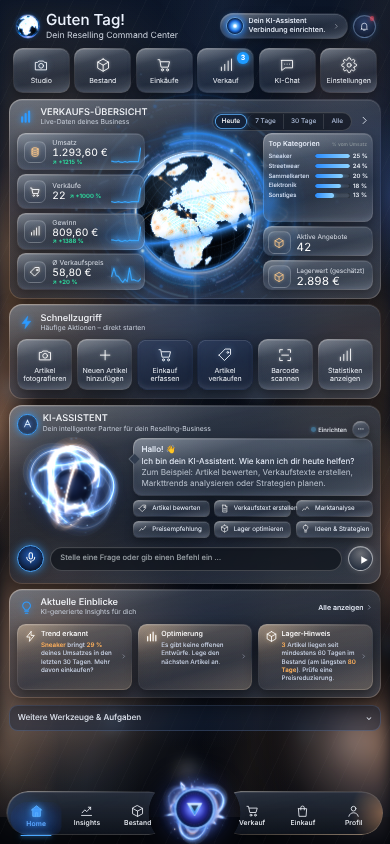
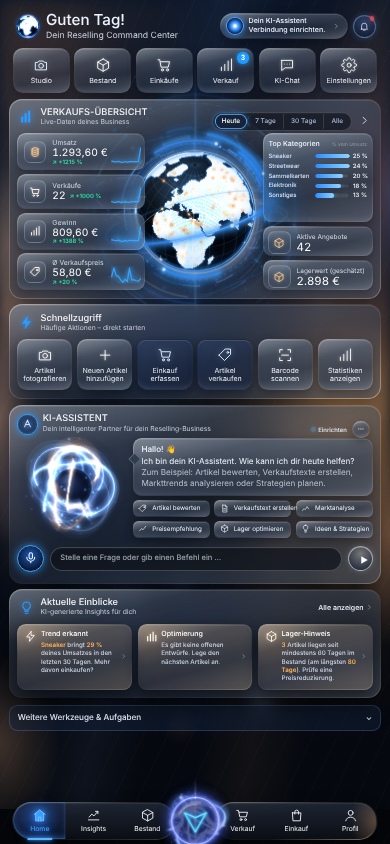
Menüleiste nach Vorlage neu gebaut
- Zwei getrennte, abgerundete dunkle Glasflügel mit Lücke für die Mitte,
  warmer Schein am rechten Ende
- Aktive Seite: blaue Leuchtfläche, gefülltes blaues Symbol, blaue Schrift, Lichtstrich
- Mitte: Glaskugel mit leuchtendem violett-blauem Ring, Pfeil, senkrechtem
  Lichtstrahl, Funkeln und Plasma-Bändern

Claude-Session: https://claude.ai/code/session_0194bcZ5PbUBuV3hzmwdGD96

diff --git a/public/theme.css b/public/theme.css
@@ -620,3 +620,55 @@ body:has(#home:not(.hidden)) main.wrap { padding-bottom:120px !important; }
 .lux-bottomnav .orb { margin-top:-30px !important; }
 .lux-bottomnav .orb { align-self:center !important; margin-top:-14px !important; min-height:0 !important; height:96px; display:grid !important; place-items:center !important; }
 .lux-bottomnav .orb .cc-nav-plasma { transform:translate(-50%,-50%) !important; }
+
+/* ================= Menüleiste exakt nach Vorlage ================= */
+#bottomnav.lux-bottomnav { left:50% !important; transform:translateX(-50%) !important; width:min(calc(100% - 16px), 900px) !important; bottom:8px !important;
+  height:auto !important; padding:0 2.2% calc(env(safe-area-inset-bottom,0px)) !important; border:0 !important; background:none !important; box-shadow:none !important;
+  -webkit-backdrop-filter:none !important; backdrop-filter:none !important; overflow:visible !important;
+  display:grid !important; grid-template-columns:repeat(3,minmax(0,1fr)) 11.4% repeat(3,minmax(0,1fr)) !important; align-items:center !important; }
+/* zwei getrennte Glasflügel */
+#bottomnav.lux-bottomnav::before, #bottomnav.lux-bottomnav::after { content:'' !important; display:block !important; position:absolute !important; top:0 !important; bottom:0 !important;
+  width:42.3% !important; height:auto !important; z-index:-1 !important; border-radius:999px !important; border:1px solid transparent !important; pointer-events:none;
+  -webkit-mask-image:none !important; mask-image:none !important; -webkit-backdrop-filter:blur(14px) !important; backdrop-filter:blur(14px) !important;
+  box-shadow:inset 0 1px 0 rgba(255,255,255,.14), 0 8px 24px rgba(0,0,0,.55) !important; }
+#bottomnav.lux-bottomnav::before { left:2.1% !important; right:auto !important;
+  background:linear-gradient(180deg, rgba(40,50,66,.62), rgba(14,18,26,.86)) padding-box,
+    linear-gradient(170deg, rgba(255,255,255,.42), rgba(255,255,255,.10) 35%, rgba(255,255,255,.06) 70%, rgba(255,255,255,.22)) border-box !important; }
+#bottomnav.lux-bottomnav::after { right:2.1% !important; left:auto !important;
+  background:radial-gradient(ellipse 22% 120% at 100% 50%, rgba(255,180,120,.30), transparent 75%) padding-box,
+    linear-gradient(180deg, rgba(40,50,66,.62), rgba(14,18,26,.86)) padding-box,
+    linear-gradient(170deg, rgba(255,255,255,.42), rgba(255,255,255,.10) 35%, rgba(255,255,255,.06) 70%, rgba(255,215,175,.55)) border-box !important; }
+/* Einträge */
+#bottomnav.lux-bottomnav button:not(.orb) { position:relative; min-height:70px !important; height:70px; padding:0 !important; gap:6px !important;
+  display:flex !important; flex-direction:column; align-items:center; justify-content:center; color:#f2f4f8 !important; background:none !important; border-radius:0 !important; }
+#bottomnav.lux-bottomnav button:not(.orb) svg { width:27px !important; height:27px !important; stroke-width:1.5 !important; color:#f2f4f8 !important; fill:none !important; filter:none !important; }
+#bottomnav.lux-bottomnav button span { font:400 12.5px/1 var(--cc-font) !important; color:#eef1f6 !important; text-shadow:none !important; letter-spacing:0 !important; }
+#bottomnav.lux-bottomnav button:not(.orb)::before { content:'' !important; display:block !important; position:absolute !important; inset:2px 4px !important; opacity:0;
+  border-radius:999px 26px 26px 999px !important; clip-path:none !important;
+  background:radial-gradient(ellipse 70% 80% at 45% 45%, rgba(40,110,255,.38), rgba(20,60,170,.18) 65%, rgba(20,60,170,.06)) !important;
+  box-shadow:inset 0 0 0 1px rgba(90,160,255,.35), inset 0 -6px 14px -6px rgba(70,150,255,.7) !important; transition:opacity .2s ease; }
+#bottomnav.lux-bottomnav button:not(.orb):not(:first-child)::before { border-radius:26px !important; }
+#bottomnav.lux-bottomnav button.selected::before, #bottomnav.lux-bottomnav button.cc-tap::before { opacity:1 !important; }
+#bottomnav.lux-bottomnav button:not(.orb).selected::after { content:'' !important; display:block !important; position:absolute !important; left:26% !important; right:26% !important;
+  bottom:0 !important; top:auto !important; height:3px !important; width:auto !important; border-radius:3px; background:#5fb4ff !important;
+  box-shadow:0 0 6px #3a9cff, 0 0 16px #2f8cff, 0 0 26px rgba(47,140,255,.7) !important; }
+#bottomnav.lux-bottomnav button.selected svg { color:#3aa0ff !important; fill:#3aa0ff !important; stroke:#7cc4ff !important; filter:drop-shadow(0 0 6px #2f8cff) drop-shadow(0 0 12px rgba(47,140,255,.6)) !important; }
+#bottomnav.lux-bottomnav button.selected span { color:#4aa8ff !important; text-shadow:0 0 8px rgba(47,140,255,.8) !important; font-weight:500 !important; }
+/* Mitte */
+#bottomnav.lux-bottomnav .orb { position:relative !important; height:70px !important; min-height:0 !important; margin:0 !important; padding:0 !important; overflow:visible !important;
+  display:block !important; background:none !important; }
+#bottomnav.lux-bottomnav .orb::before, #bottomnav.lux-bottomnav .orb::after { display:none !important; }
+#bottomnav.lux-bottomnav .orb svg.cc-navorb { position:absolute !important; left:50% !important; top:50% !important; width:118px !important; height:118px !important;
+  transform:translate(-50%,-50%) !important; filter:drop-shadow(0 0 10px rgba(90,110,255,.8)) !important; }
+#bottomnav.lux-bottomnav .orb .cc-nav-plasma { position:absolute !important; left:50% !important; top:50% !important; width:150px !important; height:150px !important;
+  transform:translate(-50%,-50%) !important; opacity:.85; }
+#bottomnav.lux-bottomnav .orb.cc-tap svg.cc-navorb { filter:drop-shadow(0 0 14px #6f86ff) drop-shadow(0 0 28px #4a5cff) !important; }
+body:has(#home:not(.hidden)) main.wrap { padding-bottom:104px !important; }
+#bottomnav.lux-bottomnav button.cc-nav-hidden:not(.orb) { display:none !important; }
+#bottomnav.lux-bottomnav::before { background:linear-gradient(180deg, rgba(30,38,52,.94), rgba(10,13,20,.97)) padding-box,
+    linear-gradient(170deg, rgba(255,255,255,.42), rgba(255,255,255,.10) 35%, rgba(255,255,255,.06) 70%, rgba(255,255,255,.22)) border-box !important; }
+#bottomnav.lux-bottomnav::after { background:radial-gradient(ellipse 22% 120% at 100% 50%, rgba(255,180,120,.30), transparent 75%) padding-box,
+    linear-gradient(180deg, rgba(30,38,52,.94), rgba(10,13,20,.97)) padding-box,
+    linear-gradient(170deg, rgba(255,255,255,.42), rgba(255,255,255,.10) 35%, rgba(255,255,255,.06) 70%, rgba(255,215,175,.55)) border-box !important; }
+#bottomnav.lux-bottomnav #navHome::before { inset:1px 2px 1px 1px !important; border-radius:999px 30px 30px 999px !important; }
+#bottomnav.lux-bottomnav .orb svg.cc-navorb { width:126px !important; height:126px !important; }

diff --git a/public/fx.js b/public/fx.js
@@ -614,31 +614,34 @@
     return S;
   }
 
-  /* Menümitte: leuchtender Ring mit Lichtreflex und Dreieck (KI-Chat) */
+  /* Menümitte wie in der Vorlage: Glaskugel, leuchtender Ring, Pfeil, Lichtstrahl */
   function buildNavOrb(host) {
     var id = 'no' + (++orbSerial), S = svgEl('svg', { viewBox: '0 0 100 100', class: 'cc-navorb', 'aria-hidden': 'true' });
     var d = svgEl('defs', {}); S.appendChild(d);
     function A(tag, at, p) { var e = svgEl(tag, at); (p || S).appendChild(e); return e; }
     function grad(type, gid, at, stops) { var g = svgEl(type, Object.assign({ id: id + gid }, at || {})); stops.forEach(function (q) { g.appendChild(svgEl('stop', { offset: q[0], 'stop-color': q[1], 'stop-opacity': q[2] == null ? '1' : q[2] })); }); d.appendChild(g); }
-    var f = svgEl('filter', { id: id + 'g', x: '-60%', y: '-60%', width: '220%', height: '220%' }); f.appendChild(svgEl('feGaussianBlur', { stdDeviation: '2.2' })); d.appendChild(f);
-    grad('radialGradient', 'h', {}, [['0', '#8a7cff', '.75'], ['.55', '#4a5cf0', '.35'], ['1', '#000', '0']]);
-    grad('radialGradient', 'k', { cx: '.5', cy: '.48', r: '.55' }, [['0', '#c8d6ff'], ['.25', '#6a7cff'], ['.55', '#2a2fa0'], ['.85', '#0b0d38'], ['1', '#05061a']]);
-    grad('linearGradient', 'l', { x1: '0', y1: '0', x2: '1', y2: '0' }, [['0', '#7cc4ff', '0'], ['.5', '#ffffff'], ['1', '#7cc4ff', '0']]);
-    grad('linearGradient', 't', { x1: '0', y1: '0', x2: '0', y2: '1' }, [['0', '#e6f4ff'], ['.5', '#5fb4ff'], ['1', '#1f6fe0']]);
-    A('circle', { cx: 50, cy: 50, r: 50, fill: 'url(#' + id + 'h)', class: 'cc-field-halo' });
-    A('circle', { cx: 50, cy: 50, r: 36, fill: 'url(#' + id + 'k)' });
-    A('circle', { cx: 50, cy: 50, r: 37, fill: 'none', stroke: '#3d9bff', 'stroke-width': '5', opacity: '.7', filter: 'url(#' + id + 'g)', class: 'cc-orb-pulse' });
-    A('circle', { cx: 50, cy: 50, r: 37, fill: 'none', stroke: '#bfe3ff', 'stroke-width': '1.4' });
-    function rot(v, dur) { var g = A('g', {}); if (!reduce) g.appendChild(svgEl('animateTransform', { attributeName: 'transform', type: 'rotate', values: v, dur: dur, repeatCount: 'indefinite' })); return g; }
-    A('circle', { cx: 50, cy: 50, r: 43, fill: 'none', stroke: '#5fb4ff', 'stroke-width': '1', 'stroke-dasharray': '14 5 3 5', opacity: '.8' }, rot('0 50 50;360 50 50', '12s'));
-    A('circle', { cx: 50, cy: 50, r: 30, fill: 'none', stroke: '#9fd2ff', 'stroke-width': '.6', 'stroke-dasharray': '2 2.4', opacity: '.7' }, rot('360 50 50;0 50 50', '9s'));
-    var cm = rot('0 50 50;360 50 50', '3.8s');
-    A('path', { d: 'M50 7 A43 43 0 0 1 80.4 19.6', fill: 'none', stroke: '#ffffff', 'stroke-width': '1.6', 'stroke-linecap': 'round', filter: 'url(#' + id + 'g)' }, cm);
-    A('circle', { cx: 80.4, cy: 19.6, r: 1.8, fill: '#fff' }, cm);
-    A('path', { d: 'M4 50 H96', stroke: 'url(#' + id + 'l)', 'stroke-width': '1.2', opacity: '.85' });
-    A('path', { d: 'M36 39 H64 L50 63 Z', fill: '#3d9bff', opacity: '.8', filter: 'url(#' + id + 'g)', class: 'cc-orb-pulse' });
-    A('path', { d: 'M36 39 H64 L50 63 Z', fill: 'url(#' + id + 't)', stroke: '#e6f4ff', 'stroke-width': '1', 'stroke-linejoin': 'round' });
-    A('path', { d: 'M43 43 H57 L50 55 Z', fill: '#0a1a3a', opacity: '.75' });
+    function blur(fid, sd) { var f = svgEl('filter', { id: id + fid, x: '-80%', y: '-80%', width: '260%', height: '260%' }); f.appendChild(svgEl('feGaussianBlur', { stdDeviation: sd })); d.appendChild(f); }
+    blur('g', '1.6'); blur('G', '4');
+    grad('radialGradient', 'k', { cx: '.45', cy: '.42', r: '.6' }, [['0', '#1a2650'], ['.6', '#0a1030'], ['.92', '#141c4a'], ['1', '#2a3a90']]);
+    grad('linearGradient', 'v', { x1: '0', y1: '0', x2: '0', y2: '1' }, [['0', '#9ab8ff', '0'], ['.5', '#e8f0ff', '1'], ['1', '#9ab8ff', '0']]);
+    // Lichtstrahl senkrecht
+    A('rect', { x: 49.4, y: -14, width: 1.2, height: 128, fill: 'url(#' + id + 'v)', opacity: '.85' });
+    A('rect', { x: 48, y: -14, width: 4, height: 128, fill: 'url(#' + id + 'v)', opacity: '.35', filter: 'url(#' + id + 'g)' });
+    // Kugel
+    A('circle', { cx: 50, cy: 50, r: 33, fill: 'url(#' + id + 'k)' });
+    A('path', { d: 'M26 40 A26 26 0 0 1 58 24', fill: 'none', stroke: '#ffffff', 'stroke-width': '2.2', 'stroke-linecap': 'round', opacity: '.55', filter: 'url(#' + id + 'g)' });
+    A('path', { d: 'M28 38 A24 24 0 0 1 52 26', fill: 'none', stroke: '#ffffff', 'stroke-width': '.8', 'stroke-linecap': 'round', opacity: '.7' });
+    [[73, 30, '#ffb070'], [76, 62, '#ffb070'], [30, 70, '#9ab8ff'], [68, 76, '#ffffff'], [22, 52, '#9ab8ff']].forEach(function (q) { A('circle', { cx: q[0], cy: q[1], r: '.9', fill: q[2], opacity: '.8' }); });
+    // Leuchtring
+    A('circle', { cx: 50, cy: 50, r: 34.5, fill: 'none', stroke: '#5a72ff', 'stroke-width': '6', opacity: '.75', filter: 'url(#' + id + 'G)', class: 'cc-orb-pulse' });
+    A('circle', { cx: 50, cy: 50, r: 34.5, fill: 'none', stroke: '#8ea6ff', 'stroke-width': '2.4', filter: 'url(#' + id + 'g)' });
+    A('circle', { cx: 50, cy: 50, r: 34.5, fill: 'none', stroke: '#eef3ff', 'stroke-width': '.9' });
+    // Pfeil
+    var arrow = 'M34 38 L50 45 L66 38 L50 66 Z';
+    A('path', { d: arrow, fill: 'none', stroke: '#2fc8ff', 'stroke-width': '4', 'stroke-linejoin': 'round', opacity: '.8', filter: 'url(#' + id + 'g)' });
+    A('path', { d: arrow, fill: 'rgba(40,190,255,.08)', stroke: '#7fe2ff', 'stroke-width': '1.8', 'stroke-linejoin': 'round' });
+    // Funkeln oben/unten am Strahl
+    [[50, 15.5], [50, 84.5]].forEach(function (q) { A('path', { d: 'M' + q[0] + ' ' + (q[1] - 3) + ' Q' + q[0] + ' ' + q[1] + ' ' + (q[0] + 3) + ' ' + q[1] + ' Q' + q[0] + ' ' + q[1] + ' ' + q[0] + ' ' + (q[1] + 3) + ' Q' + q[0] + ' ' + q[1] + ' ' + (q[0] - 3) + ' ' + q[1] + ' Q' + q[0] + ' ' + q[1] + ' ' + q[0] + ' ' + (q[1] - 3) + 'Z', fill: '#ffffff', class: 'cc-spark' }); });
     host.appendChild(S);
     return S;
   }
@@ -769,7 +772,7 @@
 
   function setupNavCore() {
     var btn = doc.querySelector('#bottomnav .orb'); if (!btn || btn.querySelector('.cc-navorb')) return;
-    btn.innerHTML = ''; var pl = plasmaInto(btn, { seed: 19, scale: 1.05 }); pl.c.classList.add('cc-nav-plasma'); buildNavOrb(btn);
+    btn.innerHTML = ''; var pl = plasmaInto(btn, { seed: 19, scale: .95 }); pl.c.classList.add('cc-nav-plasma'); buildNavOrb(btn);
   }
 
   /* Farbige Lichter hinter dem Glas: weiche, langsam treibende Lichtflecken */

diff --git a/public/sw.js b/public/sw.js
@@ -1,4 +1,4 @@
-const CACHE='rv-studio-v19-blueglass-6';
+const CACHE='rv-studio-v19-blueglass-7';
 const FILES=['/','/index.html','/app.css','/dashboard.css','/fx.css','/ref.css','/theme.css','/app.js','/dashboard.js','/fx.js',
   '/vendor/jszip.min.js','/fonts/command-sans-regular.otf','/fonts/command-sans-bold.otf',
   '/rv-logo.jpg','/rv-ai-mascot.png','/rv-robot-premium.png','/rv-white.png',
